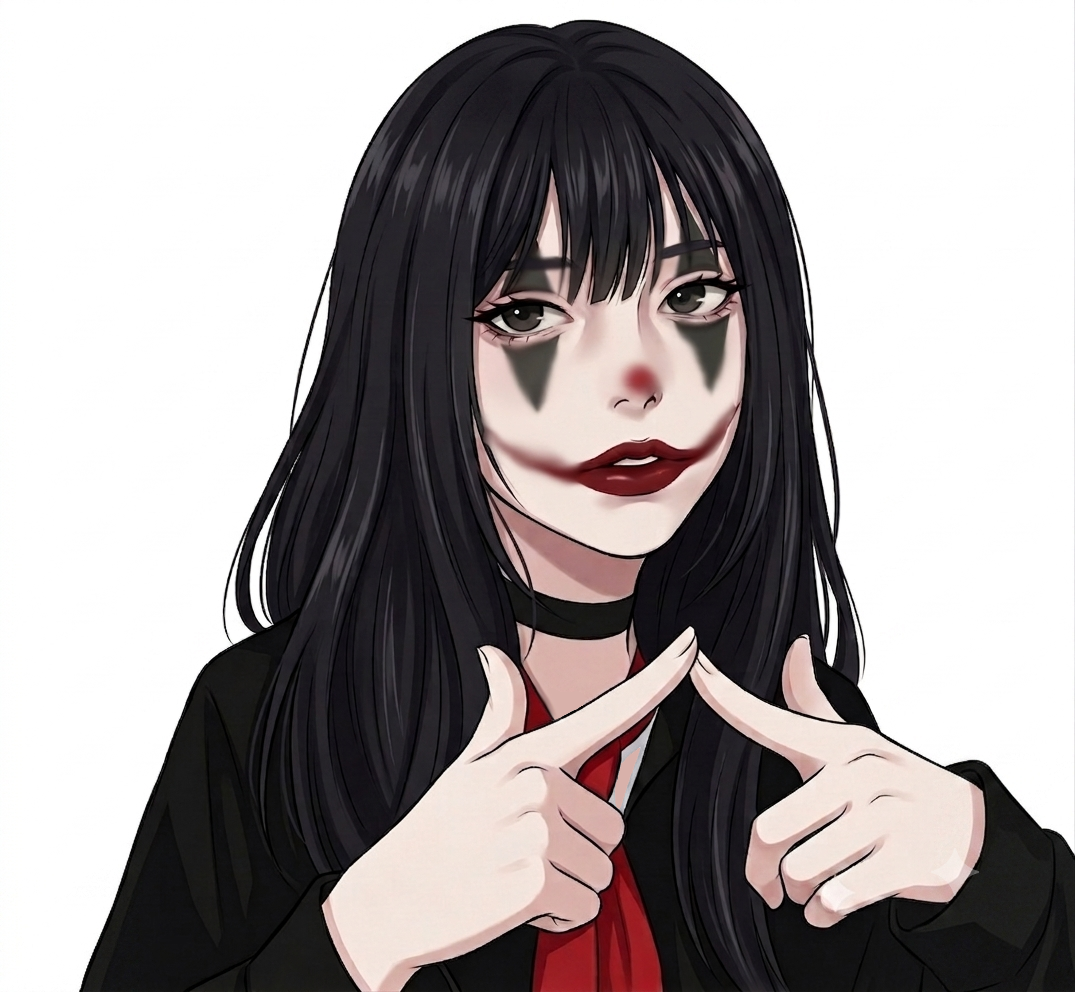
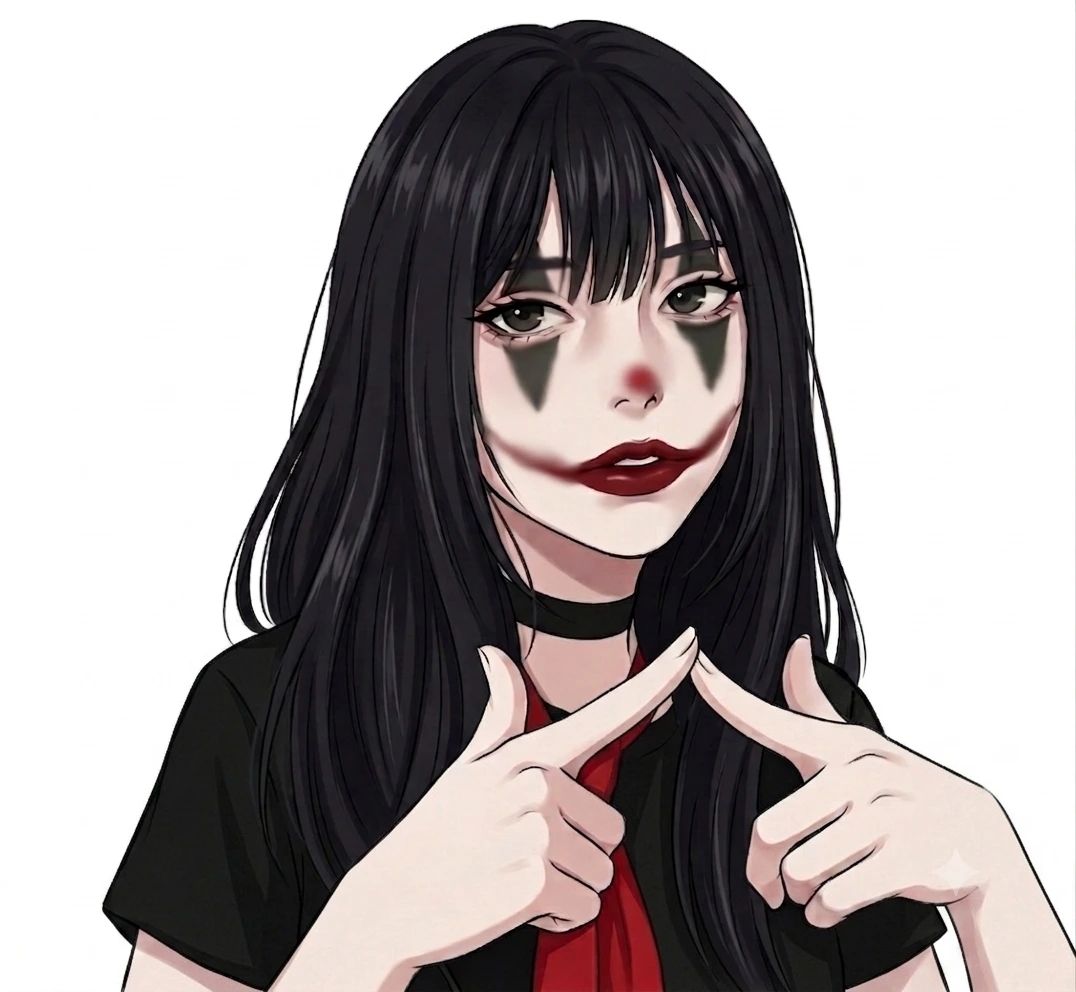
piccha larpa

diff --git a/index.html b/index.html
@@ -4,8 +4,7 @@
     <meta charset="UTF-8">
     <meta name="viewport" content="width=device-width, initial-scale=1.0">
 
-    <!-- ВОТ ЗДЕСЬ МЕНЯЕТСЯ НАЗВАНИЕ ВКЛАДКИ -->
-    <title>larp</title>
+    <title>pics</title>
 
     <link rel="preconnect" href="https://fonts.googleapis.com">
     <link rel="preconnect" href="https://fonts.gstatic.com" crossorigin>
